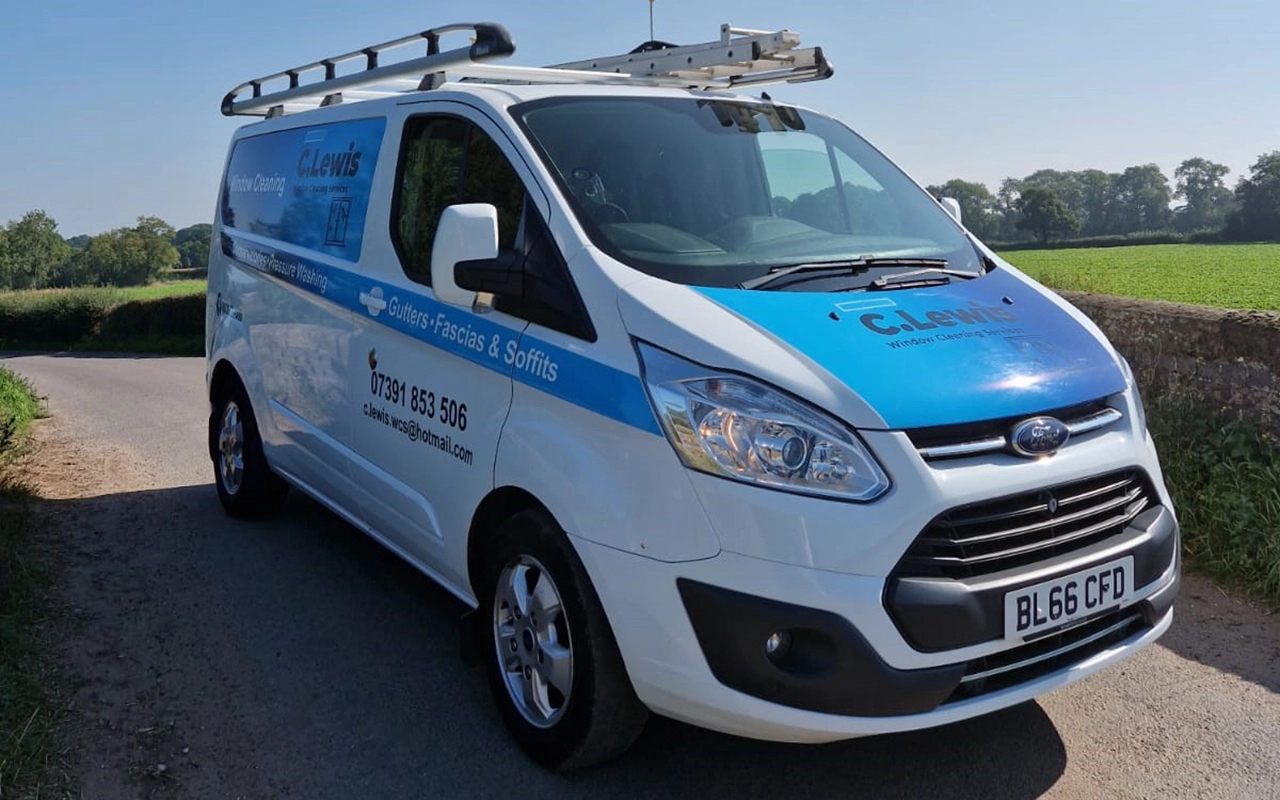
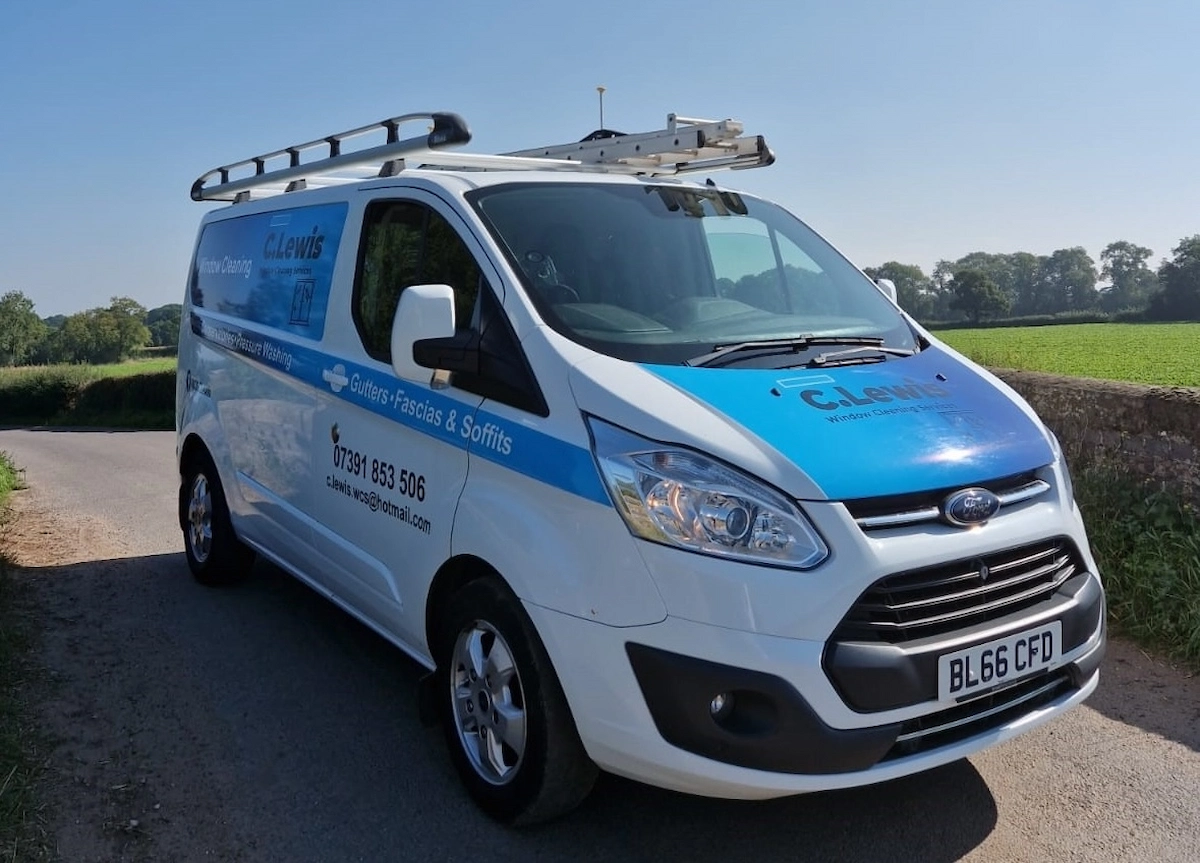
chore: replaced temporary jpeg hero image with final webp

diff --git a/c-lewis-exterior-cleaning/src/data/carousel-slides.ts b/c-lewis-exterior-cleaning/src/data/carousel-slides.ts
@@ -1,5 +1,5 @@
-import van from "../assets/images/vans/van.webp";
-import vanMobile from "../assets/images/vans/van-mobile.webp";
+import van from "../assets/images/vans/van-hero.webp";
+import vanMobile from "../assets/images/vans/van-hero-mobile.jpg";
 import stockPressureWash from "@/assets/images/stock/pressure-wash.webp";
 import stockPressureWashMobile from "@/assets/images/stock/pressure-wash-mobile.webp";
 import r1 from "../assets/images/roof-cleaning/rc4.webp";

diff --git a/c-lewis-exterior-cleaning/src/pages/services/Portfolio.tsx b/c-lewis-exterior-cleaning/src/pages/services/Portfolio.tsx
@@ -1,8 +1,8 @@
 import { Hero } from "@/components/shared/Hero";
 import { MasonryGrid } from "@/components/shared/MasonryGrid";
 import {useEffect} from 'react';
-import van from "@/assets/images/vans/van-hero.webp";
-import vanMobile from "@/assets/images/vans/van-hero-mobile.jpg";
+import van from "@/assets/images/vans/van.webp";
+import vanMobile from "@/assets/images/vans/van-mobile.webp";
 
 export const Portfolio = () => {
     useEffect(() => {
